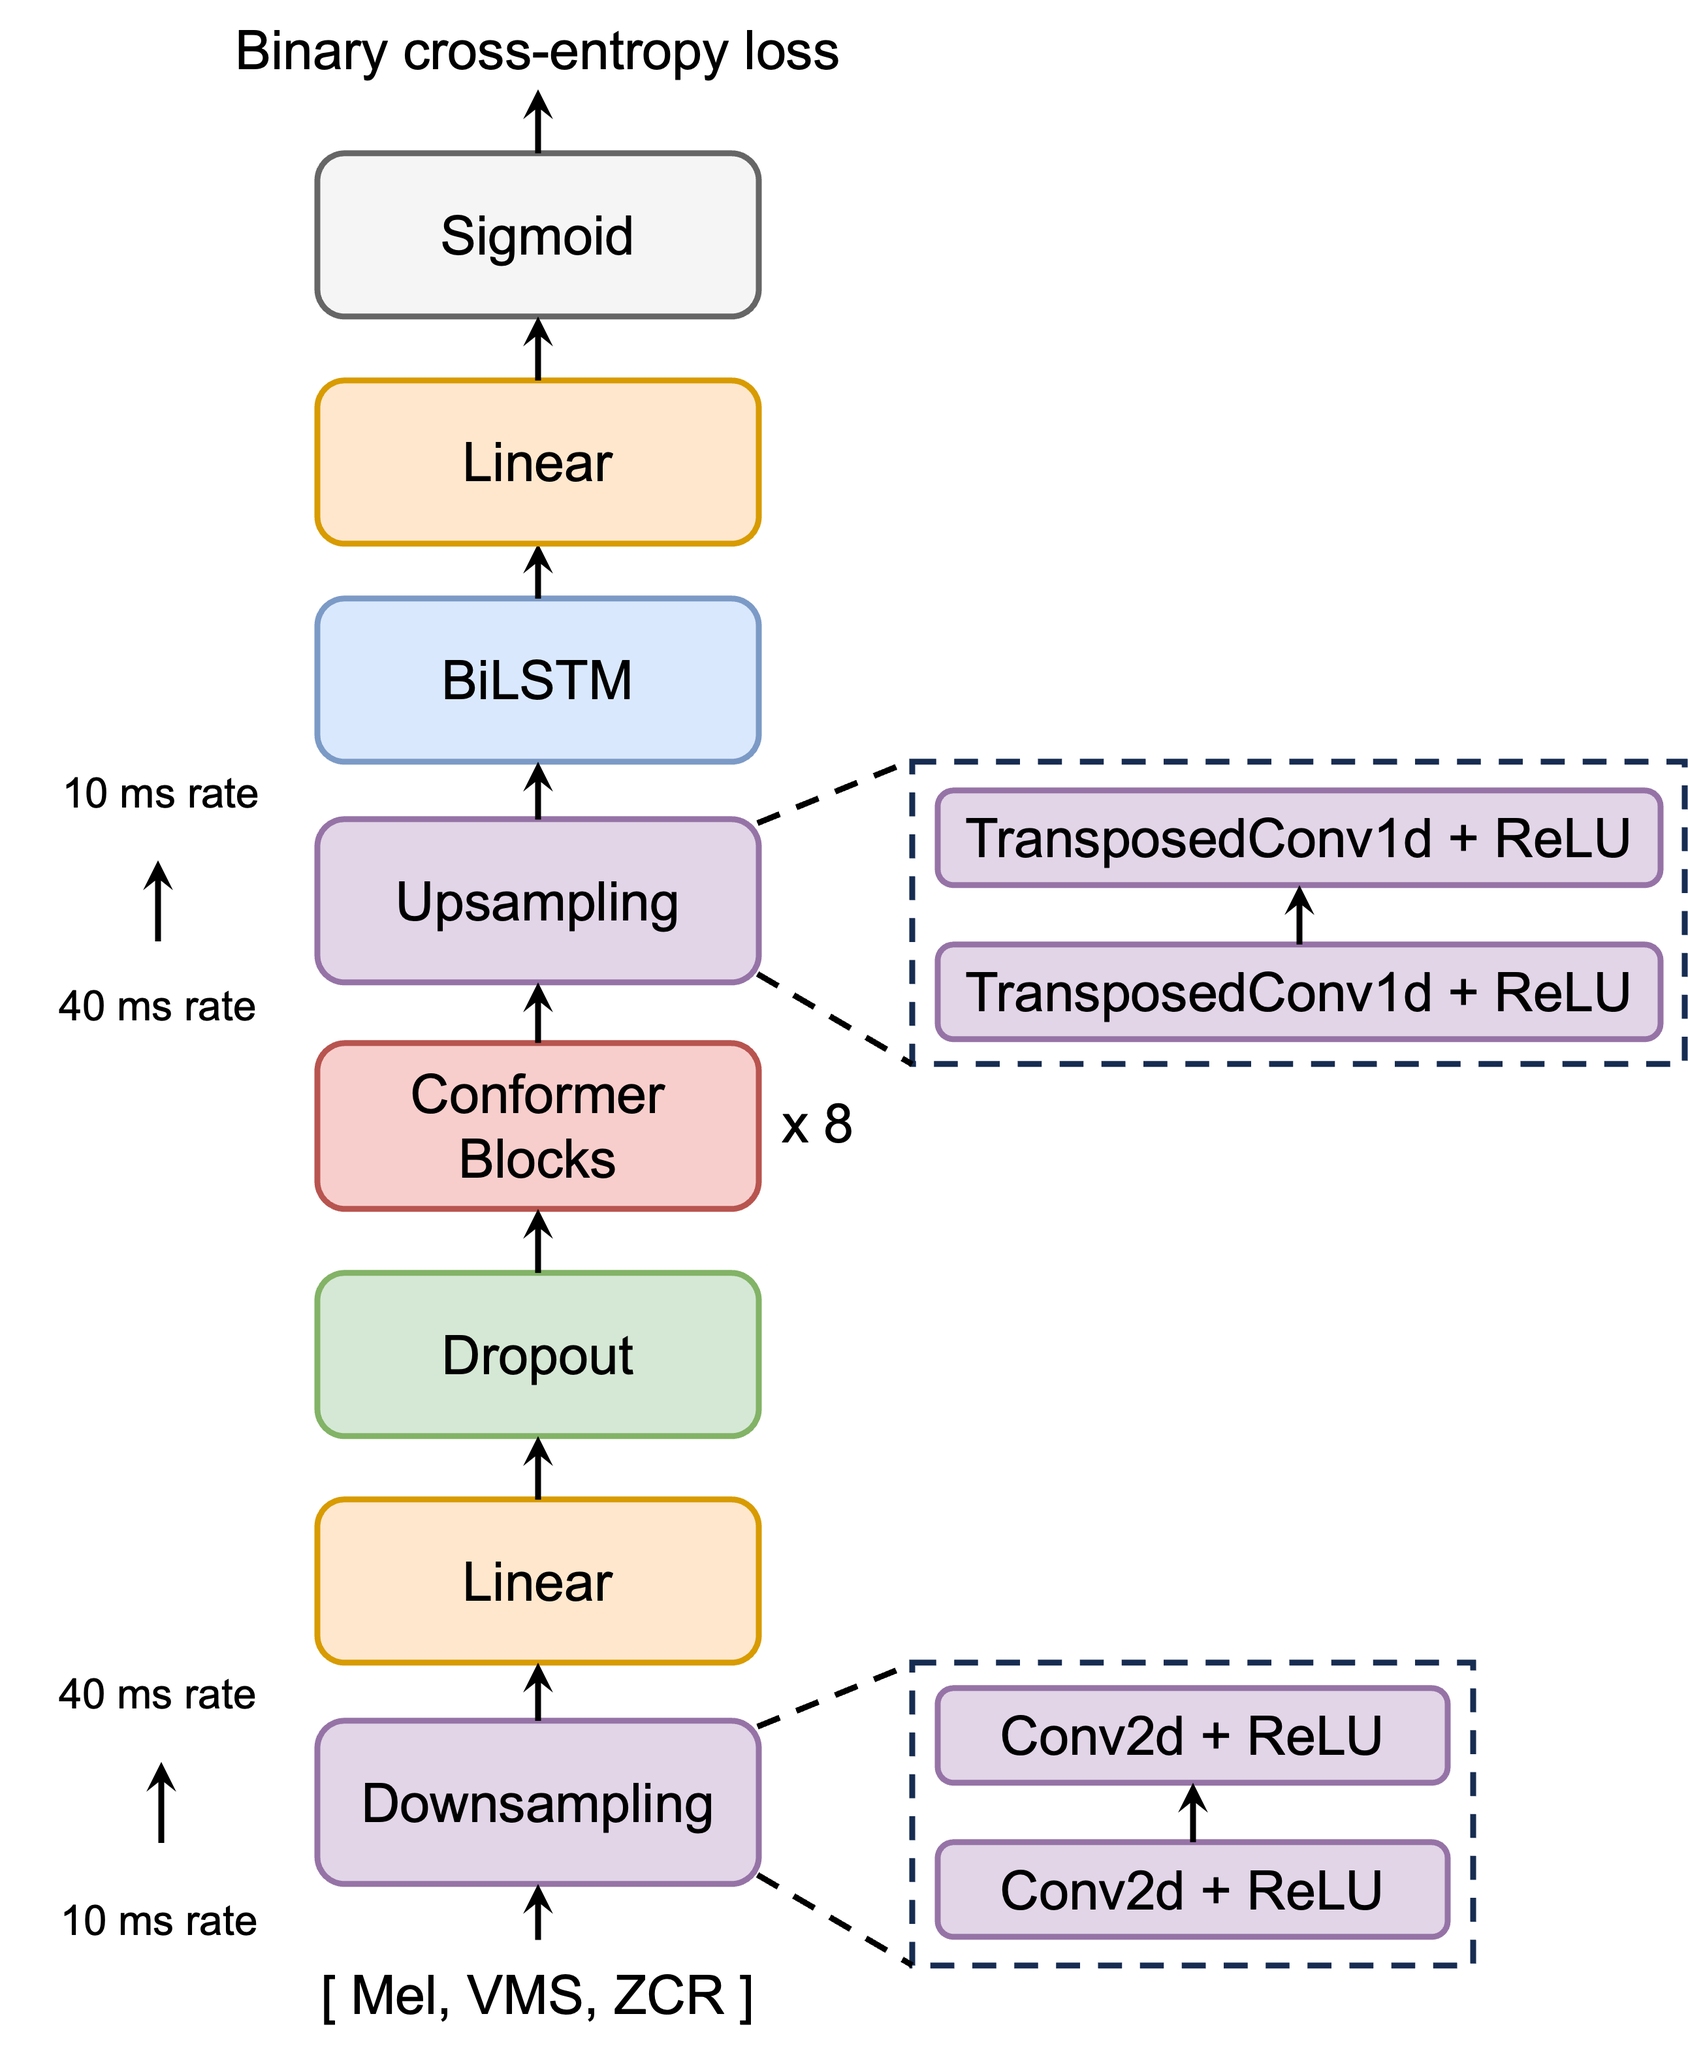
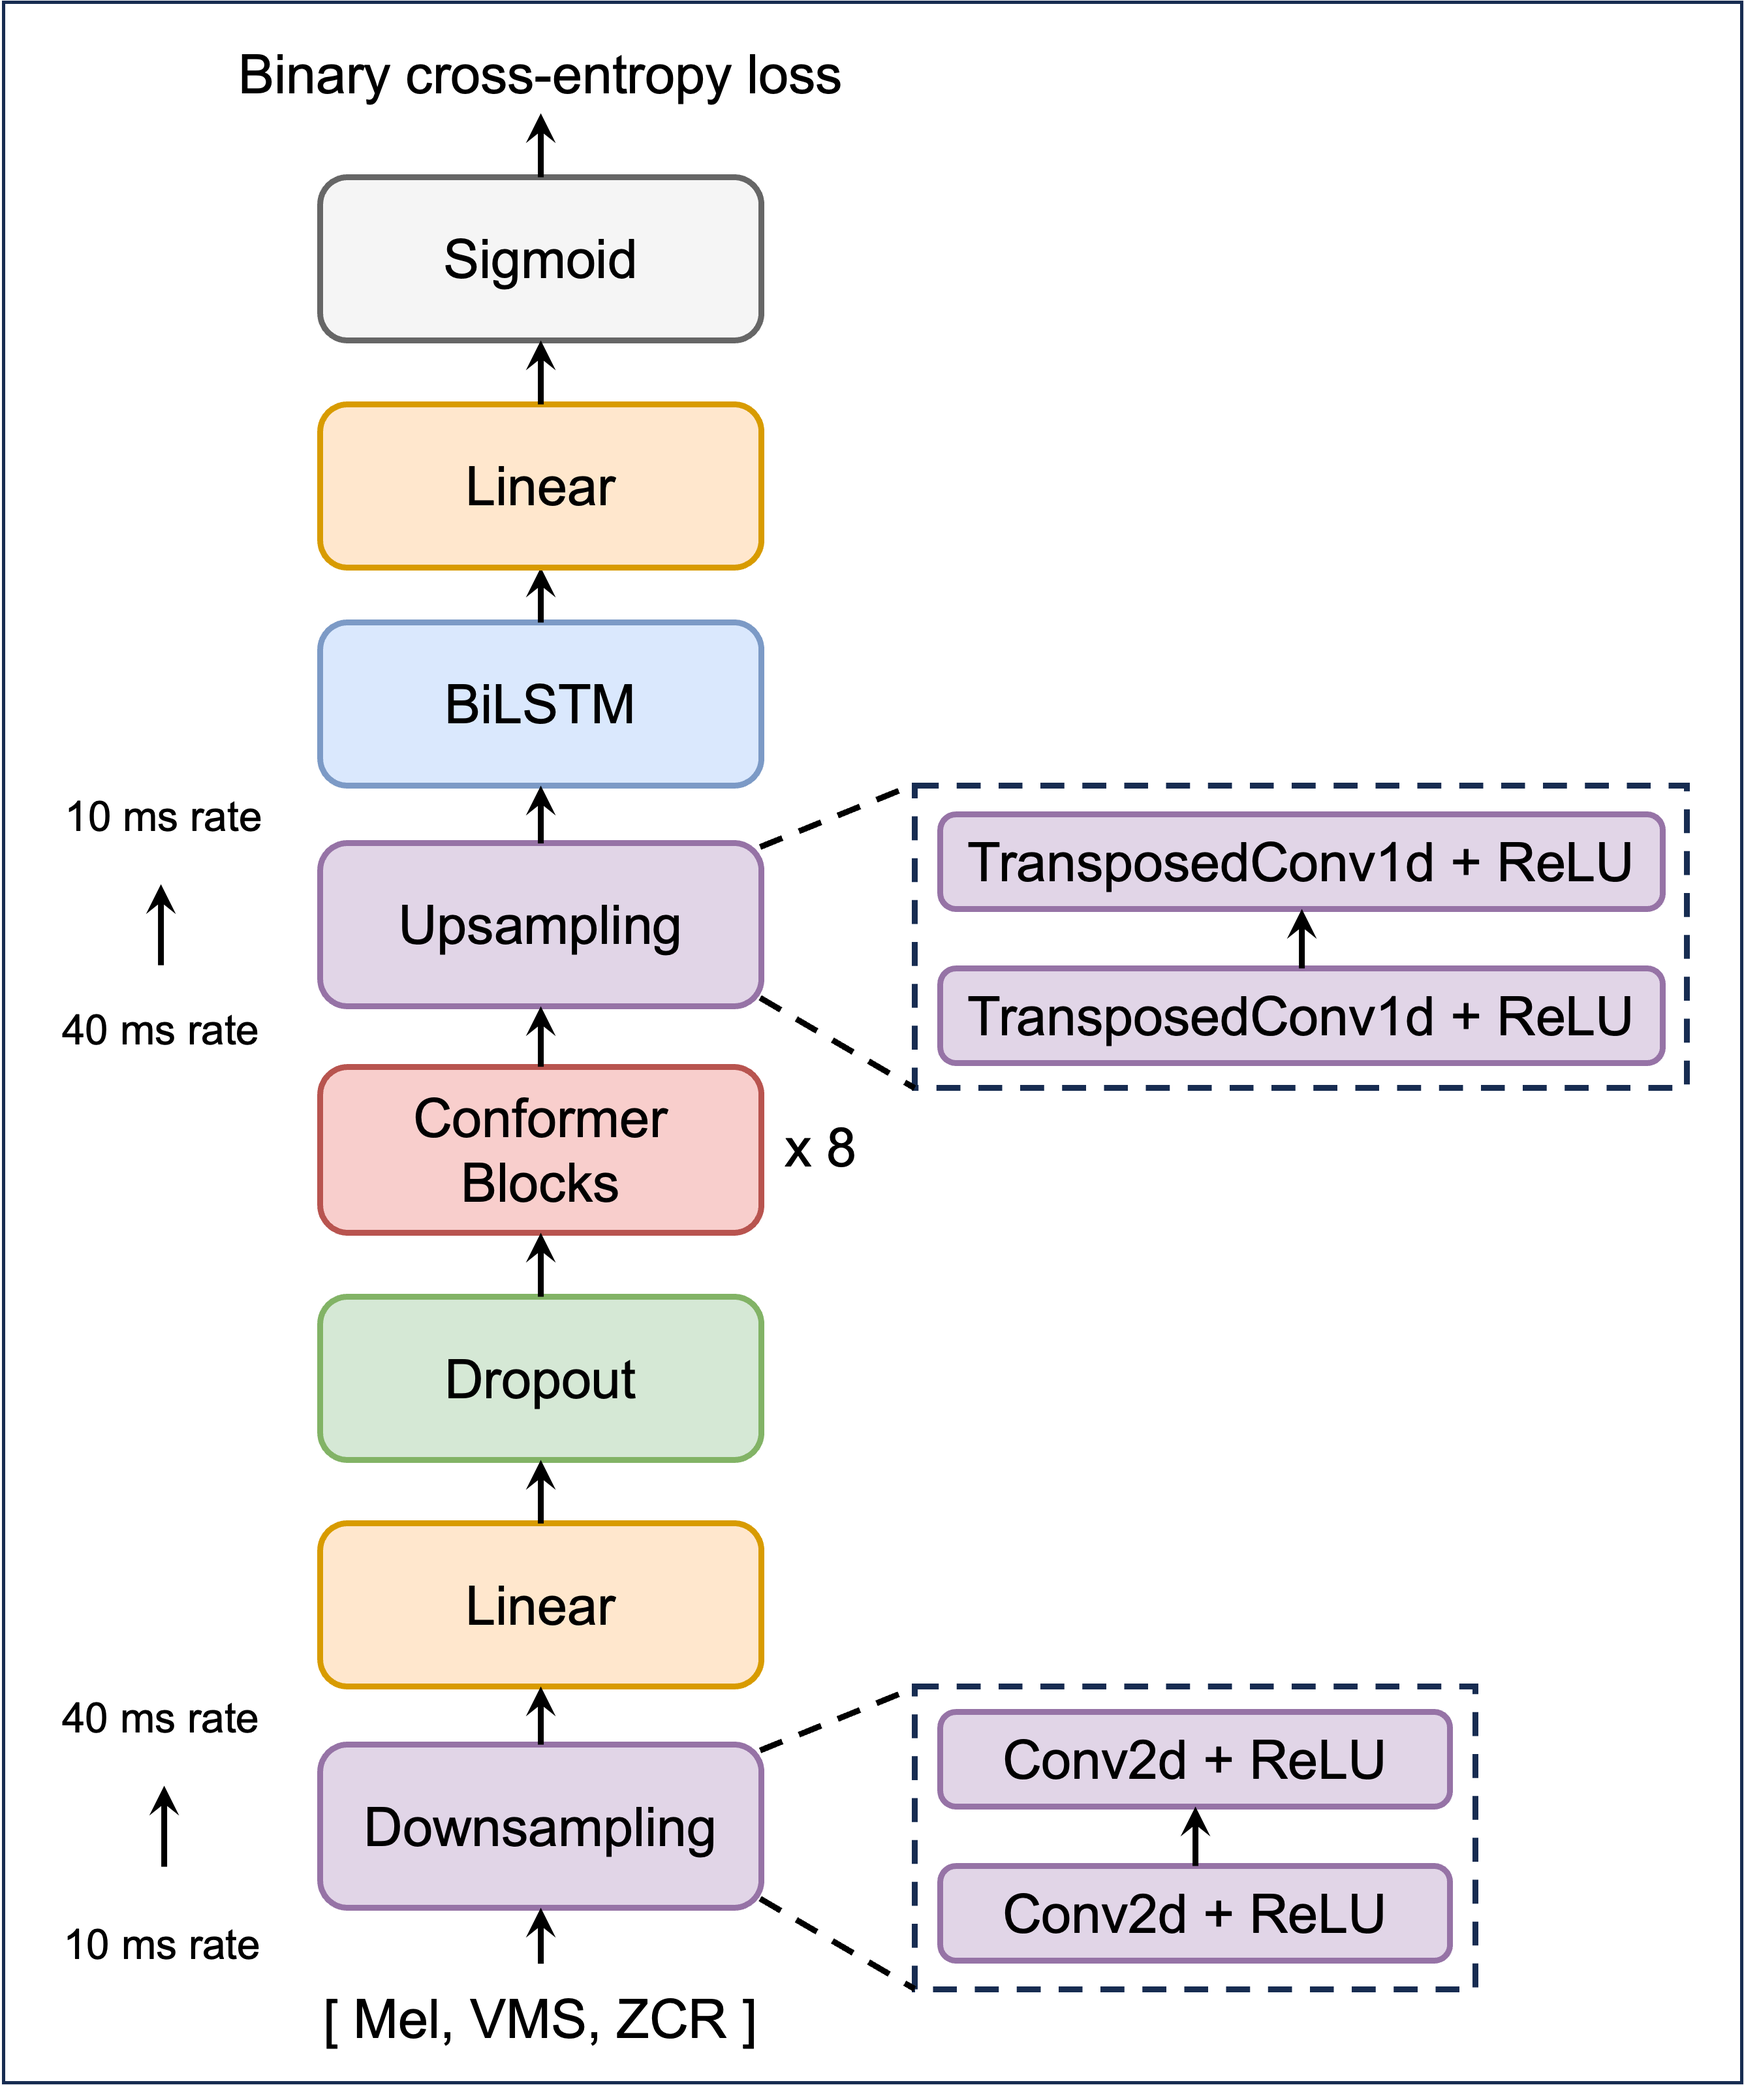
update

diff --git a/README.md b/README.md
@@ -14,6 +14,6 @@ Official PyTorch implementation of the paper: \
 This model is developed for detecting the positions of breath sounds in speech utterances. \
 It was trained using **[LibriTTS-R](https://arxiv.org/abs/2305.18802)** corpus.
 
-<img src="model.png" width="30%"/>
+<img src="model.png" width="75%"/>
 
 ## Get Started
